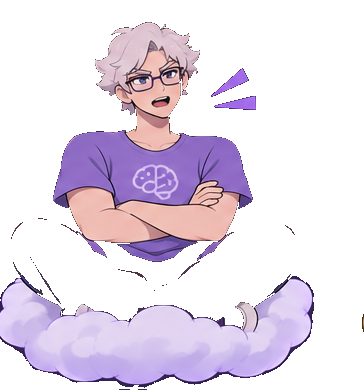
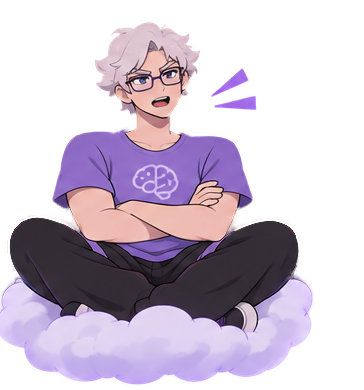
fix: preserve full juror sprites with segmentation

diff --git a/scripts/extract_jurors.py b/scripts/extract_jurors.py
@@ -1,15 +1,15 @@
-"""Extract the supplied Genie Jury sprite sheet into transparent web assets.
+"""Extract exact juror sprites with foreground segmentation, not color-keying.
 
-The source sheet has a very dark, continuous backdrop.  We flood-fill only the
-dark pixels connected to each crop's edge, which preserves the dark linework,
-hair, clothes, and cloud shading enclosed by the character silhouette.
+The supplied sheet has dark hair, clothing, outline work, and a dark backdrop.
+Threshold removal cannot distinguish those parts. rembg segments the whole
+person-and-cloud silhouette, preserving the original illustration unchanged.
 """
 
-from collections import deque
 from pathlib import Path
 import sys
 
 from PIL import Image
+from rembg import new_session, remove
 
 
 SPRITES = {
@@ -24,45 +24,15 @@ SPRITES = {
 }
 
 
-def is_backdrop(pixel: tuple[int, int, int, int]) -> bool:
-    red, green, blue, _ = pixel
-    # The artwork background is near-black/navy; the character outlines are
-    # protected by the connectivity rule below and are never edge-connected.
-    return max(red, green, blue) < 70 and abs(red - blue) < 34
-
-
-def remove_connected_backdrop(image: Image.Image) -> Image.Image:
-    rgba = image.convert("RGBA")
-    pixels = rgba.load()
-    width, height = rgba.size
-    queue: deque[tuple[int, int]] = deque()
-    seen: set[tuple[int, int]] = set()
-
-    for x in range(width):
-        queue.extend(((x, 0), (x, height - 1)))
-    for y in range(height):
-        queue.extend(((0, y), (width - 1, y)))
-
-    while queue:
-        x, y = queue.popleft()
-        if (x, y) in seen or not is_backdrop(pixels[x, y]):
-            continue
-        seen.add((x, y))
-        pixels[x, y] = (*pixels[x, y][:3], 0)
-        for nx, ny in ((x - 1, y), (x + 1, y), (x, y - 1), (x, y + 1)):
-            if 0 <= nx < width and 0 <= ny < height and (nx, ny) not in seen:
-                queue.append((nx, ny))
-    return rgba
-
-
 def main() -> None:
     if len(sys.argv) != 3:
         raise SystemExit("usage: python scripts/extract_jurors.py <sprite-sheet> <output-dir>")
     source = Image.open(sys.argv[1]).convert("RGBA")
     output_dir = Path(sys.argv[2])
     output_dir.mkdir(parents=True, exist_ok=True)
+    session = new_session("isnet-general-use")
     for name, crop in SPRITES.items():
-        transparent = remove_connected_backdrop(source.crop(crop))
+        transparent = remove(source.crop(crop), session=session, alpha_matting=True, alpha_matting_foreground_threshold=240, alpha_matting_background_threshold=10, alpha_matting_erode_size=5)
         transparent.save(output_dir / f"{name}.png", optimize=True)
 
 

diff --git a/scripts/review_jurors.py b/scripts/review_jurors.py
@@ -1,0 +1,36 @@
+"""Create a visual alpha review sheet for every extracted juror sprite."""
+
+from pathlib import Path
+import sys
+
+from PIL import Image, ImageDraw
+
+
+NAMES = ("ember", "tide", "gale", "volt")
+STATES = ("listening", "speaking")
+BACKDROPS = ("#aee3fb", "#ffffff", "#18202e")
+
+
+def main() -> None:
+    if len(sys.argv) != 3:
+        raise SystemExit("usage: python scripts/review_jurors.py <asset-dir> <output.png>")
+    source = Path(sys.argv[1])
+    tile_width, tile_height = 300, 300
+    canvas = Image.new("RGB", (tile_width * 4, tile_height * 6), "#f7f7f7")
+    draw = ImageDraw.Draw(canvas)
+    for backdrop_index, backdrop in enumerate(BACKDROPS):
+        for state_index, state in enumerate(STATES):
+            row = backdrop_index * 2 + state_index
+            for column, name in enumerate(NAMES):
+                tile = Image.new("RGB", (tile_width, tile_height), backdrop)
+                asset = Image.open(source / f"{name}-{state}.png").convert("RGBA")
+                asset.thumbnail((270, 250))
+                tile.paste(asset, ((tile_width - asset.width) // 2, 30), asset)
+                draw_tile = ImageDraw.Draw(tile)
+                draw_tile.text((10, 8), f"{name} · {state}", fill="#102033")
+                canvas.paste(tile, (column * tile_width, row * tile_height))
+    canvas.save(sys.argv[2])
+
+
+if __name__ == "__main__":
+    main()
